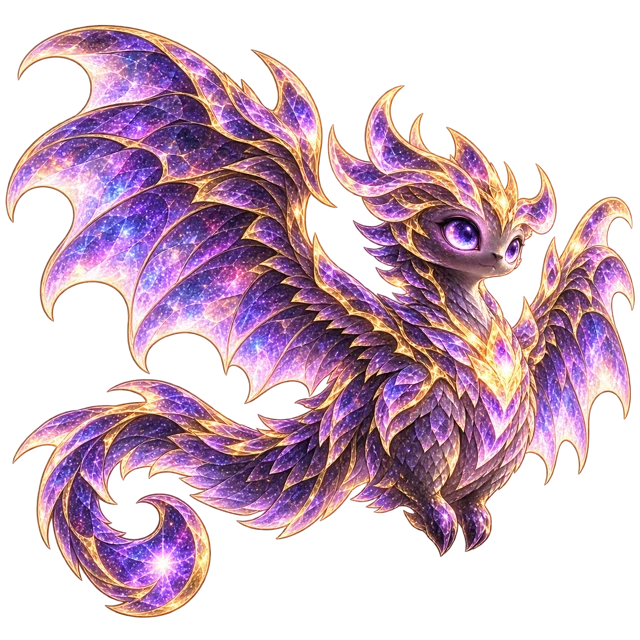
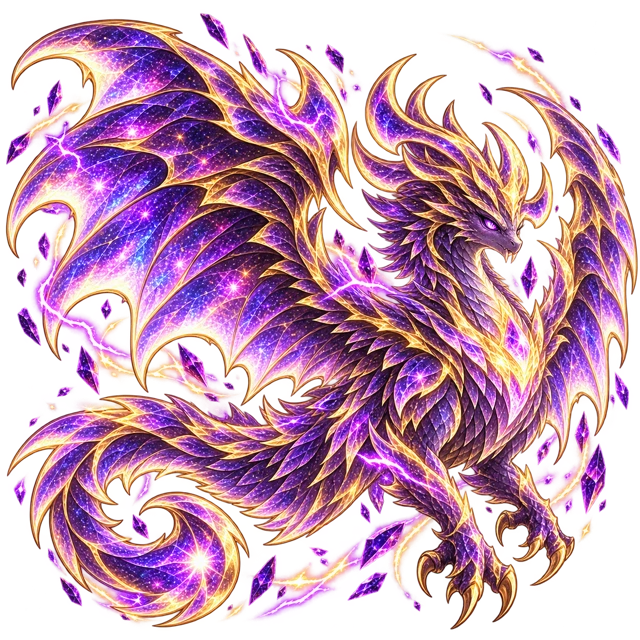
Make legendary gold guardians fierce with elemental energy effects

diff --git a/index.html b/index.html
@@ -1350,4 +1350,4 @@ html body .top.valor-resource-bar{border:1px solid #ab854f!important;border-radi
 html body .valor-level-block{max-width:34%;border:0;padding-top:0}
 @media(max-width:700px){html body .shell{padding:8px 7px 16px}html body .mmorpg-home-grid.valor-vertical-home{gap:7px!important}.valor-fantasy-brand{display:none}html body .valor-level-block{max-width:none}html body .layout{margin-bottom:calc(15vw + 28px + env(safe-area-inset-bottom))!important}html body .top.valor-resource-bar{margin-bottom:0!important}}
 @media(prefers-reduced-motion:reduce){html body .valor-fantasy-home .valor-vertical-tile{transition:none}}
-</style><style id="valor-consumable-art-v2">.vm-limited-art img.valor-anniversary-box-art{width:100%!important;height:100%!important;max-width:none!important;max-height:none!important;}.valor-consumable-art{display:block;width:100%;height:100%;object-fit:contain}.market-item-detail .valor-consumable-art,.vm-market-purchase-dialog .valor-consumable-art{width:100%;height:100%;max-width:150px;max-height:150px;object-fit:contain}.bag-slot .valor-consumable-art{width:100%;height:100%;object-fit:contain}</style><link rel="stylesheet" href="assets/pets/pets.css?v=20261025-guardians-menu"><script src="assets/pets/pets.js?v=20261025-guardians-menu"></script></body></html>
+</style><style id="valor-consumable-art-v2">.vm-limited-art img.valor-anniversary-box-art{width:100%!important;height:100%!important;max-width:none!important;max-height:none!important;}.valor-consumable-art{display:block;width:100%;height:100%;object-fit:contain}.market-item-detail .valor-consumable-art,.vm-market-purchase-dialog .valor-consumable-art{width:100%;height:100%;max-width:150px;max-height:150px;object-fit:contain}.bag-slot .valor-consumable-art{width:100%;height:100%;object-fit:contain}</style><link rel="stylesheet" href="assets/pets/pets.css?v=20261025-gold-feral"><script src="assets/pets/pets.js?v=20261025-gold-feral"></script></body></html>

diff --git a/assets/pets/pets.js b/assets/pets/pets.js
@@ -13,7 +13,7 @@ function valorPetCost(stage){return stage>=VALOR_PET_MAX_STAGE?0:15*(valorPetSta
 function valorPetInfo(stage){stage=valorPetStage(stage);return {stage,rarity:VALOR_PET_RARITIES[Math.floor(stage/5)],stars:stage%5+1,value:10+stage*5,cost:valorPetCost(stage)}}
 const VALOR_PET_EVOLUTION_FILES=['','-green','-blue','-purple','-gold'];
 const VALOR_PET_EVOLUTION_NAMES=['Yavru','Genç','Yetişkin','Kadim','Efsanevi'];
-function valorPetArt(id,stage){if(!VALOR_PETS.some(p=>p.id===id))return '';return 'assets/pets/'+id+VALOR_PET_EVOLUTION_FILES[Math.floor(valorPetStage(stage)/5)]+'.webp?v=20261025-evolutions'}
+function valorPetArt(id,stage){if(!VALOR_PETS.some(p=>p.id===id))return '';const tier=Math.floor(valorPetStage(stage)/5);return 'assets/pets/'+id+VALOR_PET_EVOLUTION_FILES[tier]+'.webp?v='+(tier===4?'20261025-gold-feral':'20261025-evolutions')}
 function valorPetPreviewStage(id,tier){
  const pet=VALOR_PETS.find(p=>p.id===id),dialog=document.getElementById('valor-pet-evolution');
  if(!pet||!dialog||!Number.isInteger(tier)||tier<0||tier>4)return;
